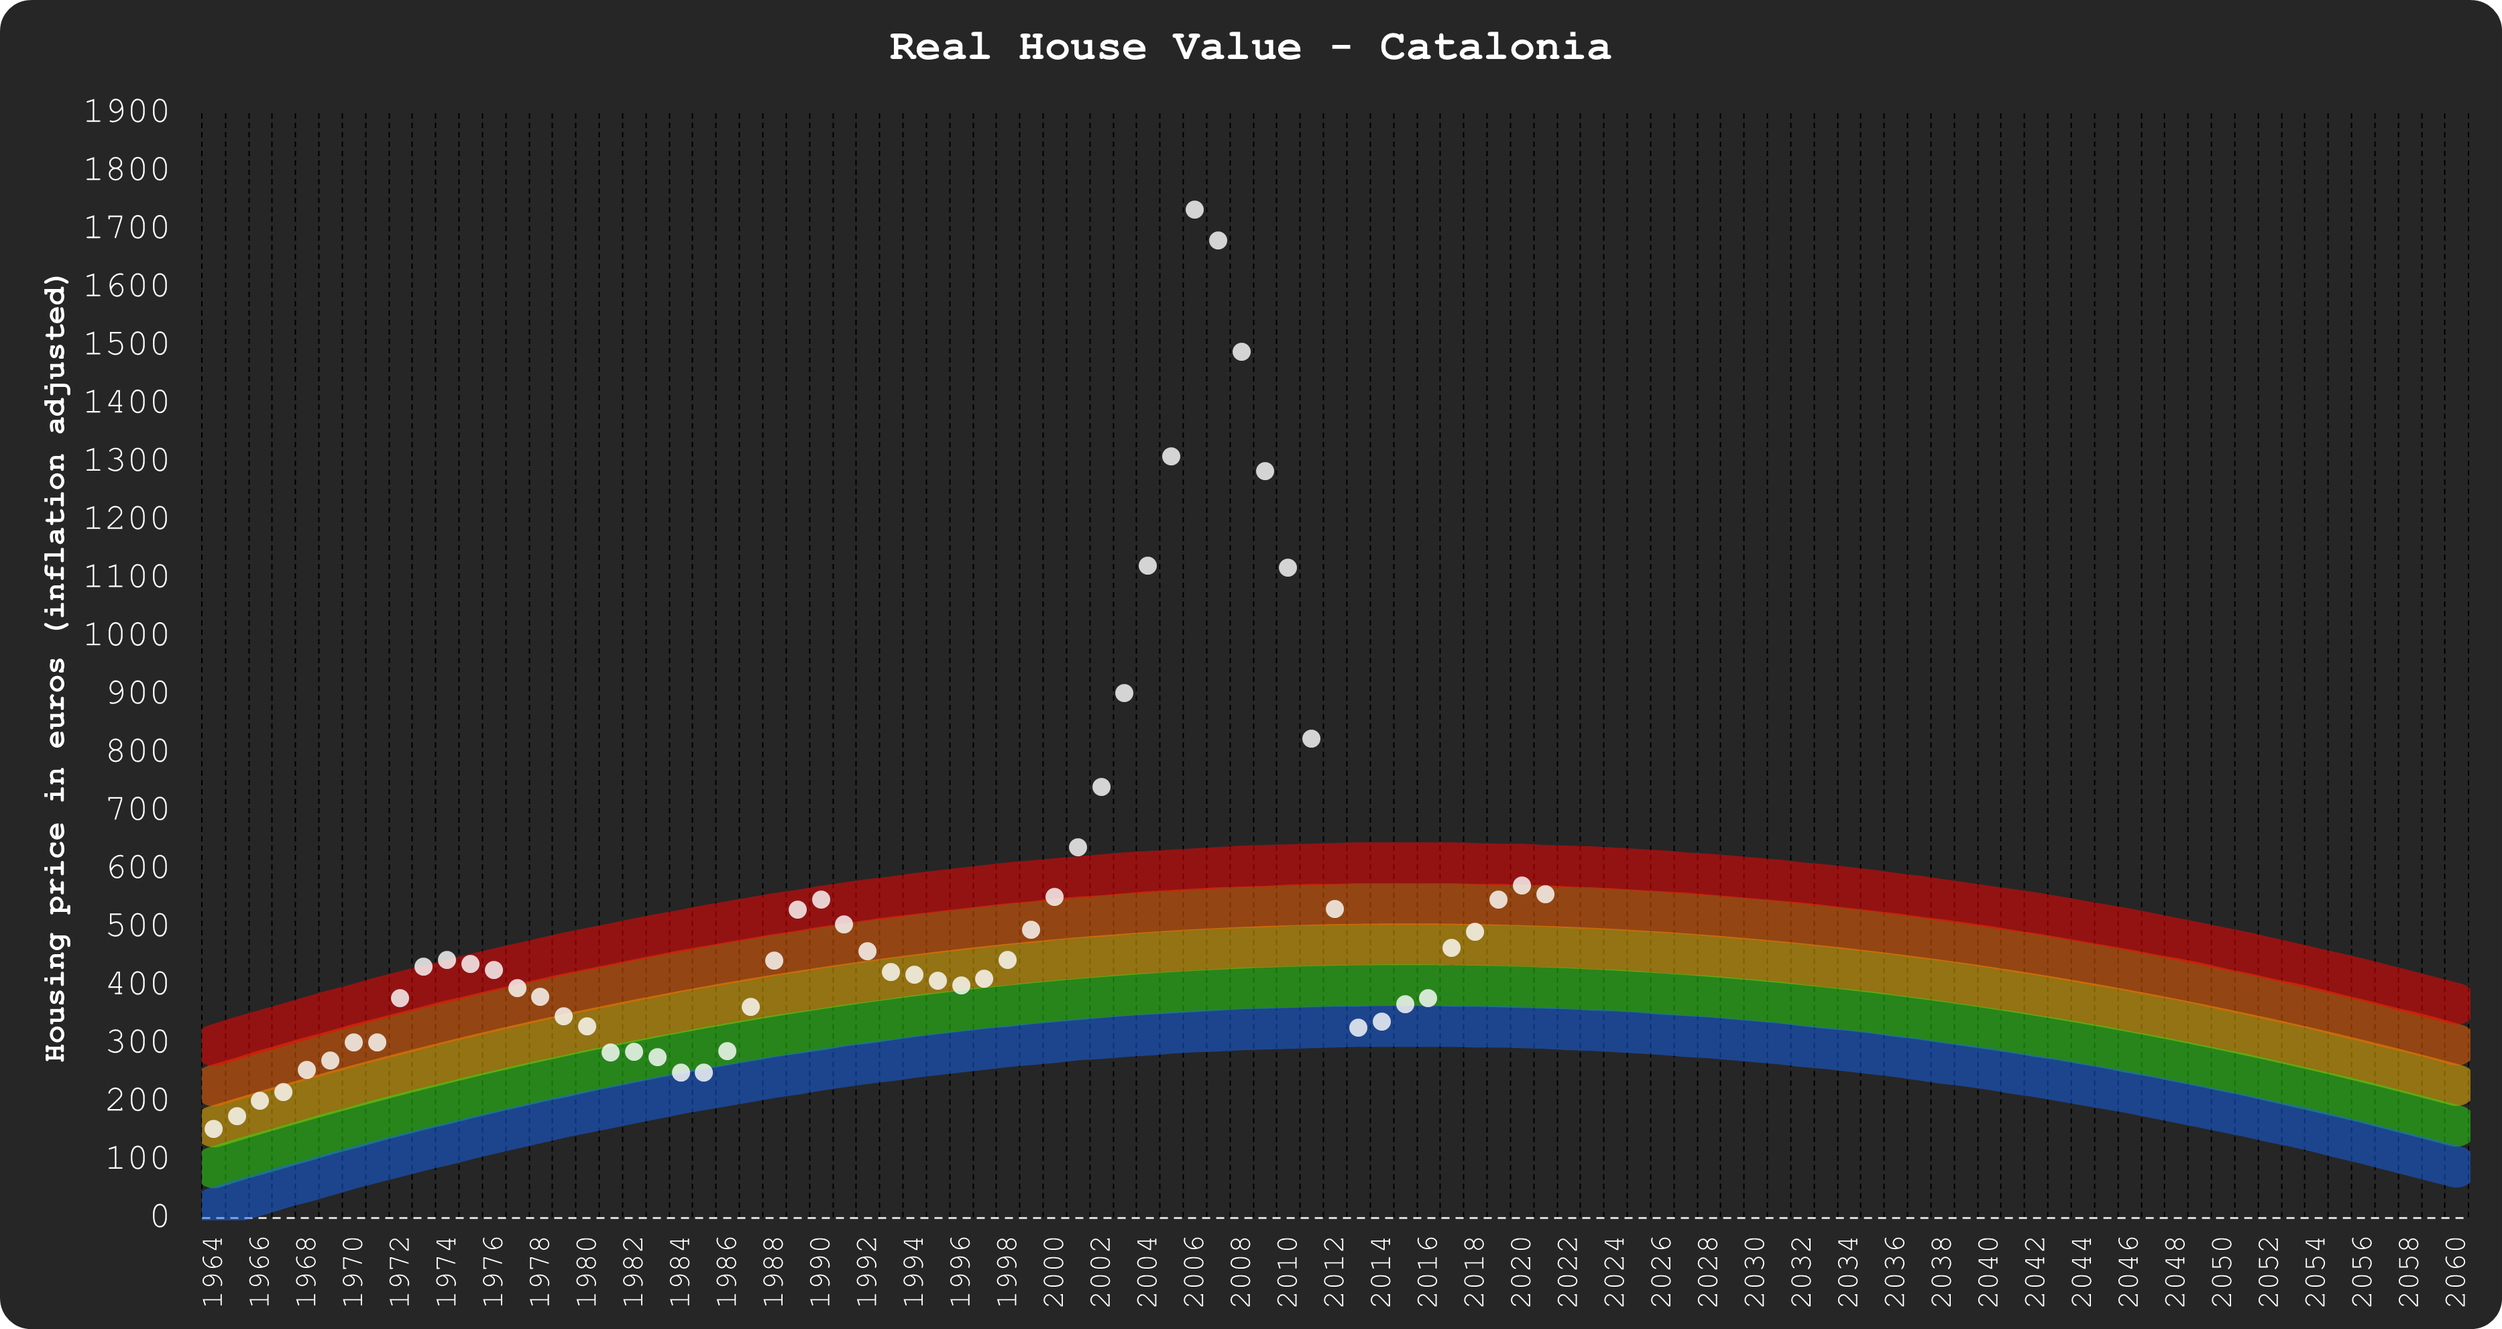
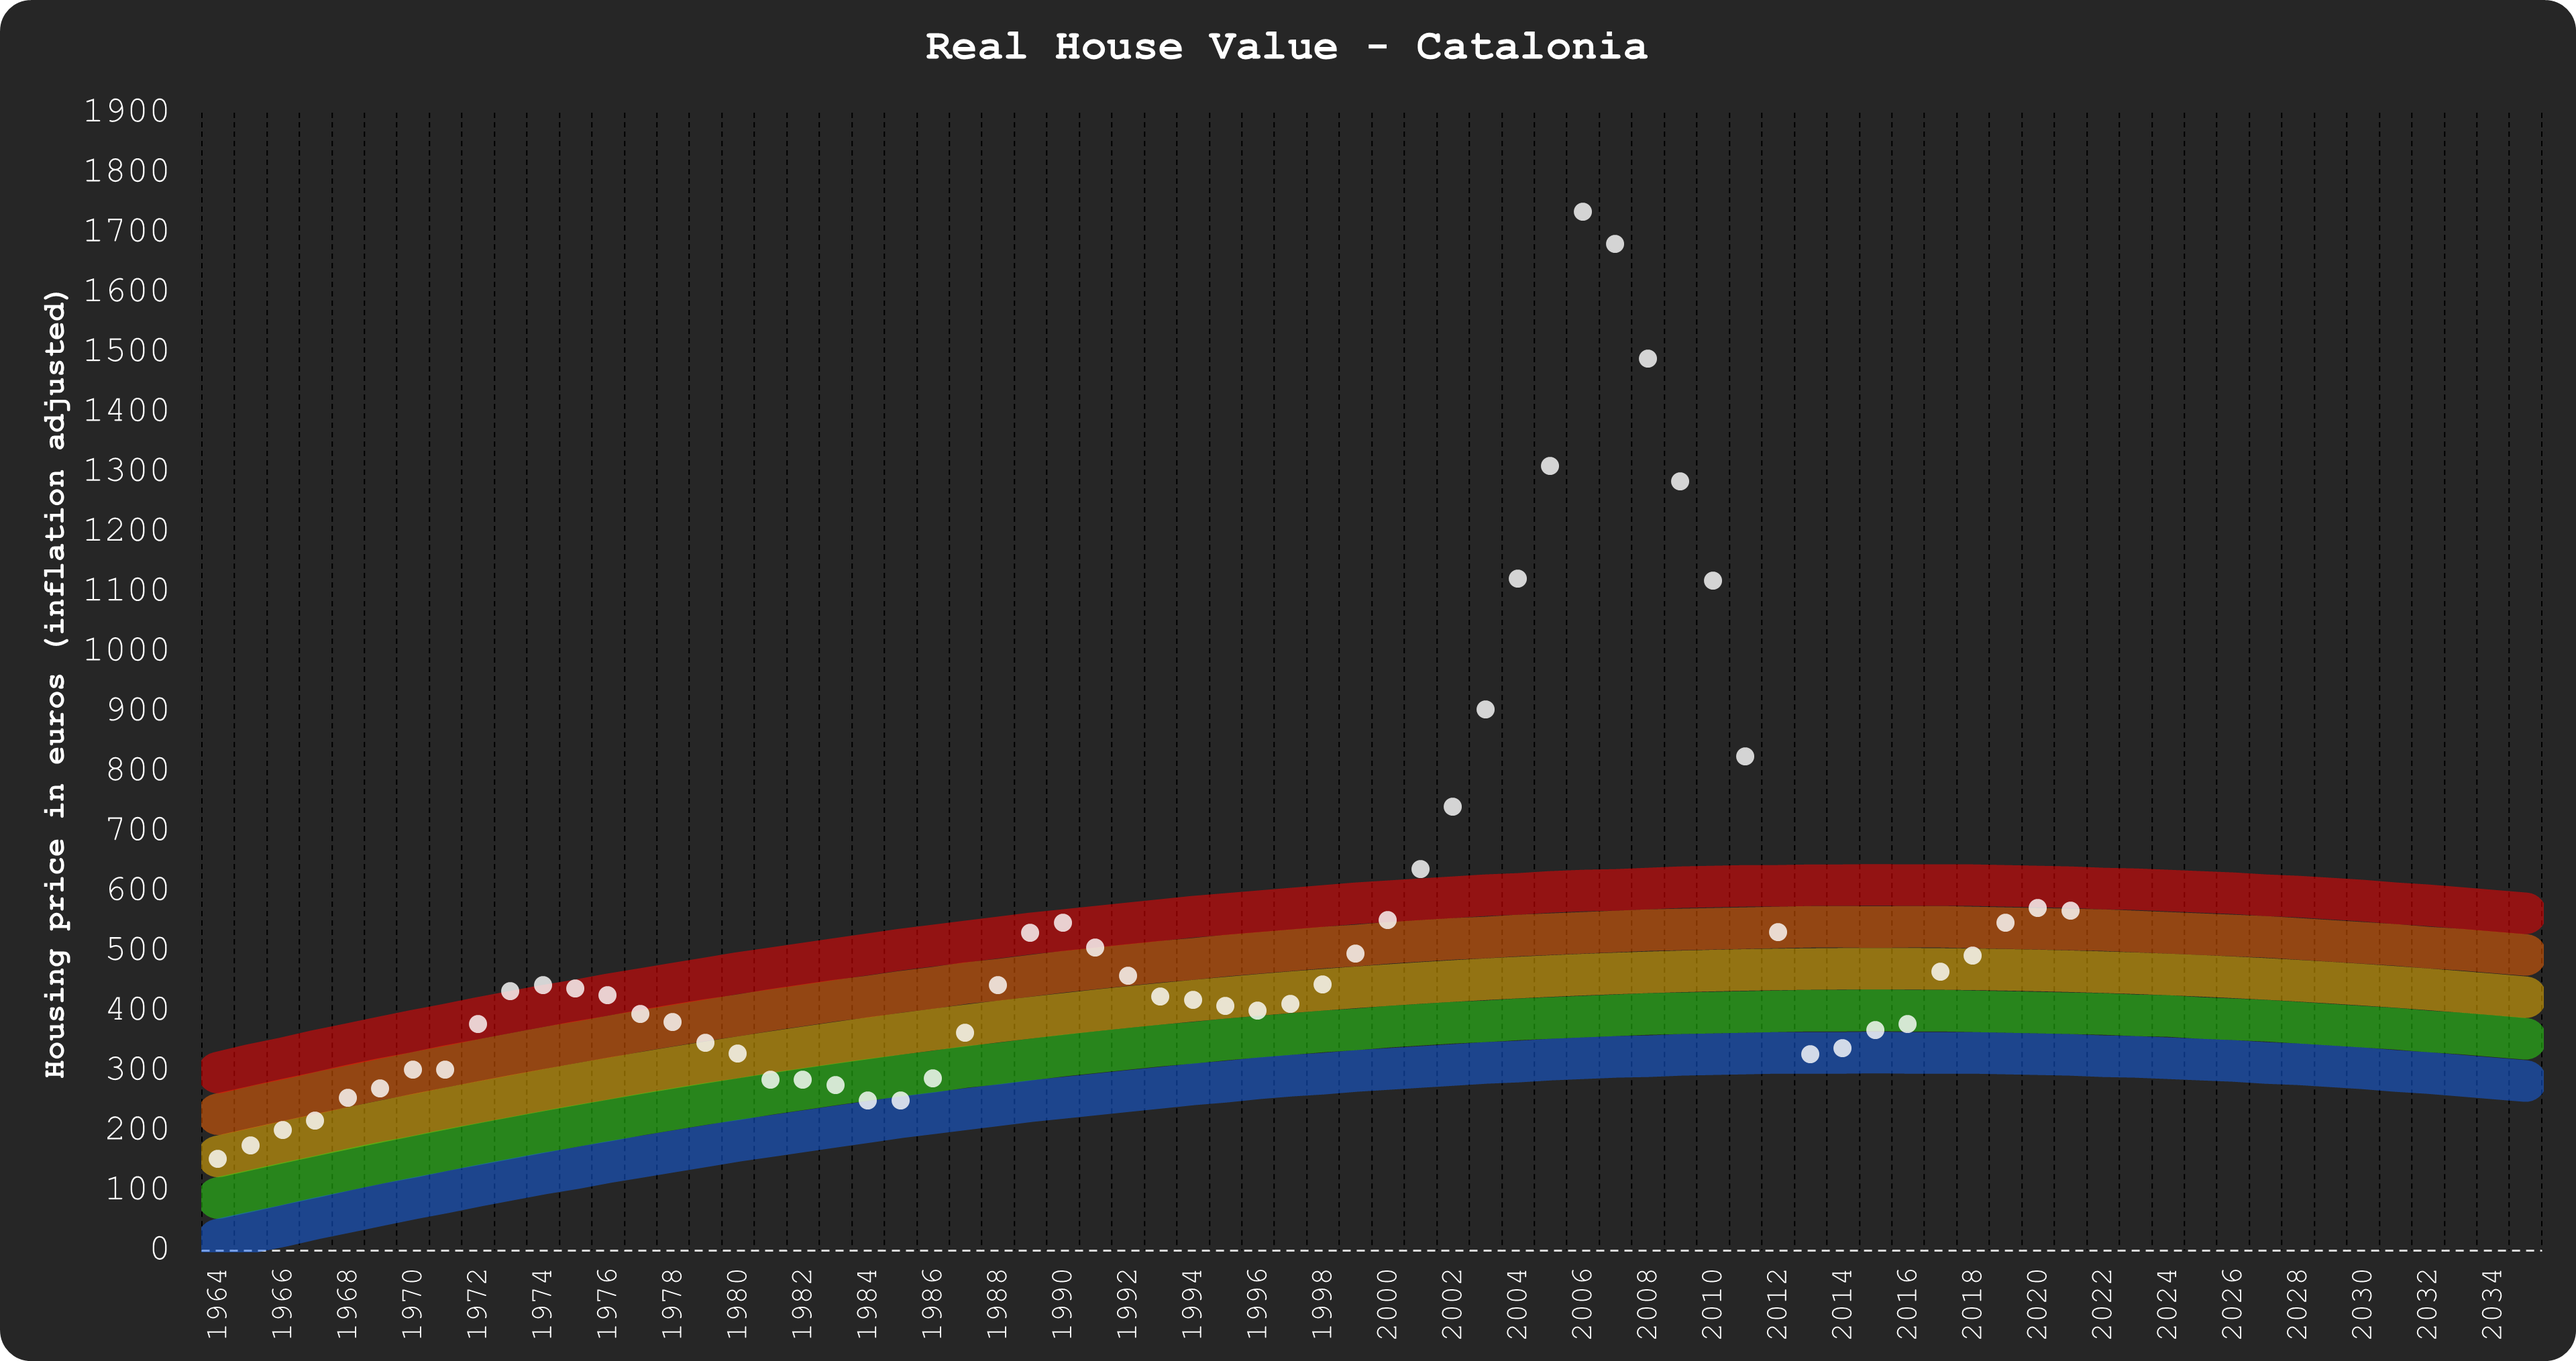
test

diff --git a/pages/posts/rainbow.md b/pages/posts/rainbow.md
@@ -22,7 +22,7 @@ Equations chart:
 
 ![Reload chart](/images/rainbowsource.png)
 
-Full dataset chart, from 1964 to 2060:
+Full dataset chart, from 1964 to 2035:
 
 ![Reload chart](/images/rainbowmax.png)
 
